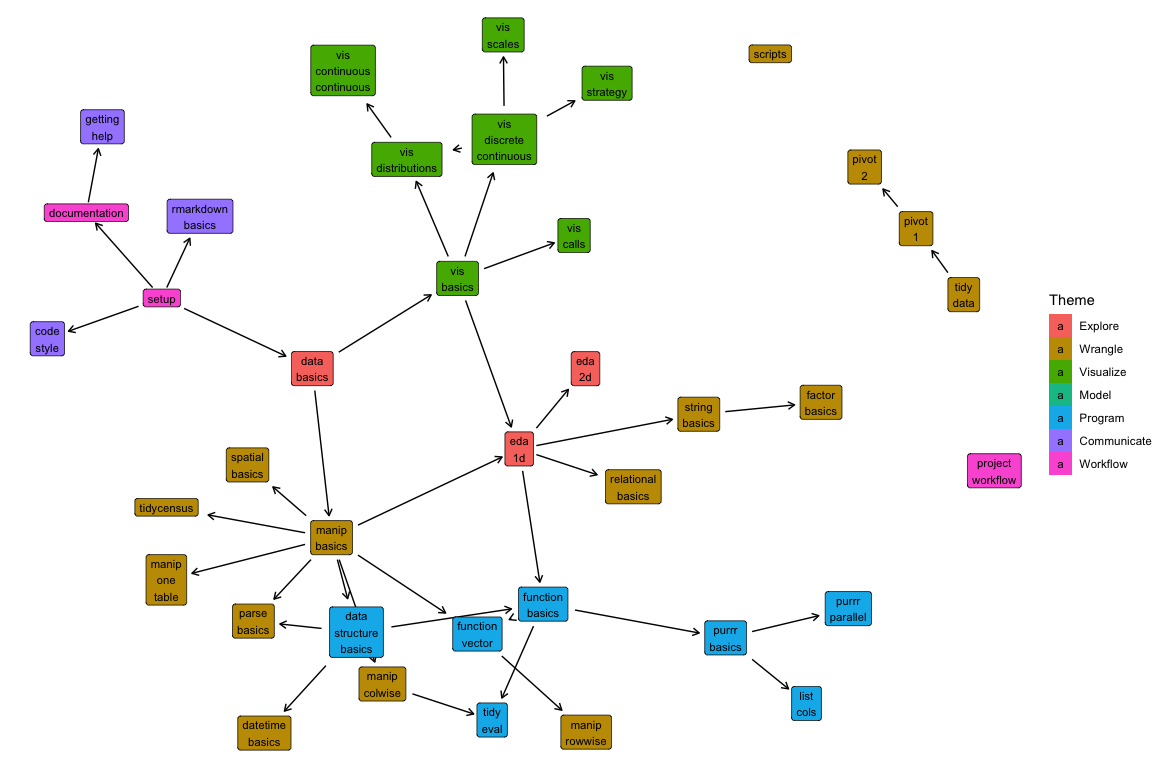
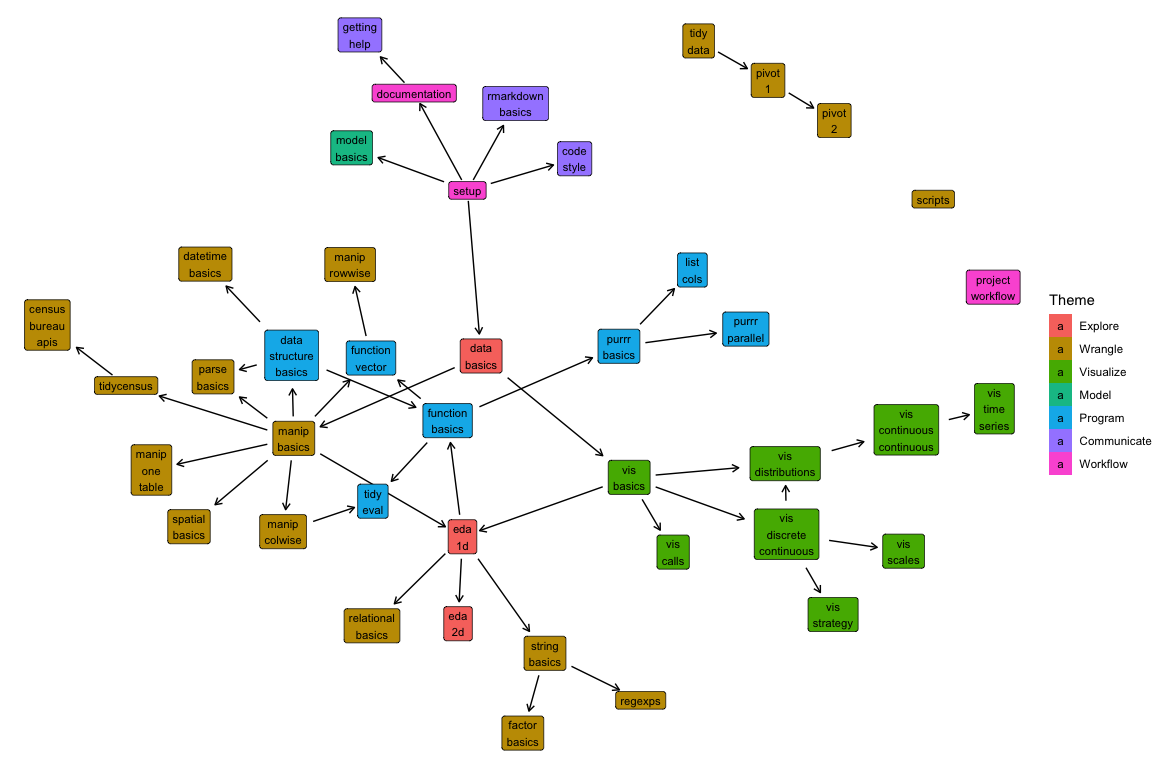
Initial commit

diff --git a/docs/index.md b/docs/index.md
@@ -256,4 +256,36 @@ title: Theme index
   <td colspan="4"></td>
 </tr>
 </tbody>
+<tbody>
+<tr>
+<td id='week-6'>6</td>
+  <td colspan="4"></td>
+  <td colspan="6"><a class="program" href="list-cols.html">List-columns</a></td>
+  <td colspan="2"></td>
+</tr>
+<tr>
+<td></td>
+  <td colspan="1"></td>
+  <td colspan="6"><a class="wrangle" href="regexps.html">Regular expressions</a></td>
+  <td colspan="5"></td>
+</tr>
+<tr>
+<td></td>
+  <td colspan="2"></td>
+  <td colspan="6"><a class="visualize" href="vis-time-series.html">Time series</a></td>
+  <td colspan="4"></td>
+</tr>
+<tr>
+<td></td>
+  <td colspan="1"></td>
+  <td colspan="6"><a class="wrangle" href="census-bureau-apis.html">Census Bureau APIs</a></td>
+  <td colspan="5"></td>
+</tr>
+<tr>
+<td></td>
+  <td colspan="3"></td>
+  <td colspan="6"><a class="model" href="model-basics.html">Model basics</a></td>
+  <td colspan="3"></td>
+</tr>
+</tbody>
 </table>

diff --git a/docs/regexps.md b/docs/regexps.md
@@ -1,0 +1,23 @@
+---
+title: Regular expressions
+---
+
+<!-- Generated automatically from regexps.yml. Do not edit by hand -->
+
+# Regular expressions <small class='wrangle'>[wrangle]</small>
+<small>(Builds on: [String basics](string-basics.md))</small>
+
+Regular expressions are a extremely concise language for describing patterns
+in strings. They are important to master because they unlock a number of
+new tools that allow you to bend strings to your will.
+
+## Readings
+
+  * [Matching patterns with regular expressions](http://r4ds.had.co.nz/strings.html#matching-patterns-with-regular-expressions) [r4ds-14.3]
+
+  * [Tools](http://r4ds.had.co.nz/strings.html#tools) [r4ds-14.4]
+
+  * [String manipulation with stringr cheat sheet](https://github.com/rstudio/cheatsheets/blob/master/strings.pdf).
+    The Regular Expressions section is a very helpful reference.
+
+

diff --git a/docs/model-basics.md b/docs/model-basics.md
@@ -1,0 +1,24 @@
+---
+title: Model basics
+---
+
+<!-- Generated automatically from model-basics.yml. Do not edit by hand -->
+
+# Model basics <small class='model'>[model]</small>
+<small>(Builds on: [Setup](setup.md))</small>
+
+It's hard to understand data just by looking at it in a tibble. Visualizations
+are one way to gain a better understanding of the relationships present in
+your data. Modeling is another approach. 
+
+We're not going to rigorously cover the mathematical foundations of models. In
+this unit, we'll only cover the intuition for how models approximate data, as 
+well as how to conduct EDA when you know you're eventually going to fit a model.
+
+## Readings
+
+  * [Model basics](https://dcl-model.stanford.edu/model_basics.html) [model-1]
+
+  * [Understand your data](https://dcl-model.stanford.edu/understand_your_data.html) [model-2]
+
+

diff --git a/docs/census-bureau-apis.md b/docs/census-bureau-apis.md
@@ -1,0 +1,22 @@
+---
+title: Census Bureau APIs
+---
+
+<!-- Generated automatically from census-bureau-apis.yml. Do not edit by hand -->
+
+# Census Bureau APIs <small class='wrangle'>[wrangle]</small>
+<small>(Builds on: [tidycensus](tidycensus.md))</small>
+
+Previously, you learned how to use the tidycensus package to access ACS and
+decennial census data. To access yearly population data between decennial census
+years, however, you'll need to work directly with the Census Bureau's
+Population Estimates APIs. In this unit, we'll cover accessing data directly 
+from APIs, and then discuss the Population Estimates APIs in more detail.
+
+## Readings
+
+  * [API basics](https://dcl-wrangle.stanford.edu/api-basics.html) [wrangle-8]
+
+  * [Population estimates](https://dcl-wrangle.stanford.edu/census.html#population-estimates-1) [wrangle-9.3]
+
+

diff --git a/docs/setup.md b/docs/setup.md
@@ -5,7 +5,7 @@ title: Setup
 <!-- Generated automatically from setup.yml. Do not edit by hand -->
 
 # Setup <small class='workflow'>[workflow]</small>
-<small>(Leads to: [Code style](code-style.md), [Data basics](data-basics.md), [Documentation](documentation.md), [R Markdown basics](rmarkdown-basics.md))</small>
+<small>(Leads to: [Code style](code-style.md), [Data basics](data-basics.md), [Documentation](documentation.md), [Model basics](model-basics.md), [R Markdown basics](rmarkdown-basics.md))</small>
 
 Ensure that you have all the tools you need for this class. You should
 have done this before the first day.

diff --git a/docs/vis-time-series.md b/docs/vis-time-series.md
@@ -1,0 +1,18 @@
+---
+title: Time series
+---
+
+<!-- Generated automatically from vis-time-series.yml. Do not edit by hand -->
+
+# Time series <small class='visualize'>[visualize]</small>
+<small>(Builds on: [Continuous-continuous relationships](vis-continuous-continuous.md))</small>
+
+Many data sets include time as a variable, and you'll often be
+curious how your data has changed across time. In this reading, you'll
+learn about date scales and strategies for visualizing time series.
+
+## Readings
+
+  * [Time series](https://dcl-data-vis.stanford.edu/time-series.html) [data-vis-6]
+
+

diff --git a/docs/vis-continuous-continuous.md b/docs/vis-continuous-continuous.md
@@ -5,7 +5,8 @@ title: Continuous-continuous relationships
 <!-- Generated automatically from vis-continuous-continuous.yml. Do not edit by hand -->
 
 # Continuous-continuous relationships <small class='visualize'>[visualize]</small>
-<small>(Builds on: [Distributions](vis-distributions.md))</small>
+<small>(Builds on: [Distributions](vis-distributions.md))</small>  
+<small>(Leads to: [Time series](vis-time-series.md))</small>
 
 You've likely already come across situations in which you wanted to understand
 how two or more continuous variables were related. In this reading, you'll

diff --git a/docs/tidycensus.md b/docs/tidycensus.md
@@ -5,7 +5,8 @@ title: tidycensus
 <!-- Generated automatically from tidycensus.yml. Do not edit by hand -->
 
 # tidycensus <small class='wrangle'>[wrangle]</small>
-<small>(Builds on: [Manipulation basics](manip-basics.md))</small>
+<small>(Builds on: [Manipulation basics](manip-basics.md))</small>  
+<small>(Leads to: [Census Bureau APIs](census-bureau-apis.md))</small>
 
 The American Community Survey (ACS) and decennial census are rich, reliable
 sources of information on the U.S. population. In this reading, you'll learn how 

diff --git a/docs/string-basics.md b/docs/string-basics.md
@@ -6,7 +6,7 @@ title: String basics
 
 # String basics <small class='wrangle'>[wrangle]</small>
 <small>(Builds on: [Exploratory data analysis (1D)](eda-1d.md))</small>  
-<small>(Leads to: [Factor basics](factor-basics.md))</small>
+<small>(Leads to: [Factor basics](factor-basics.md), [Regular expressions](regexps.md))</small>
 
 The basics of string manipulation will give you the ability to create new
 strings by combining existing strings, or by pulling out values at specific
